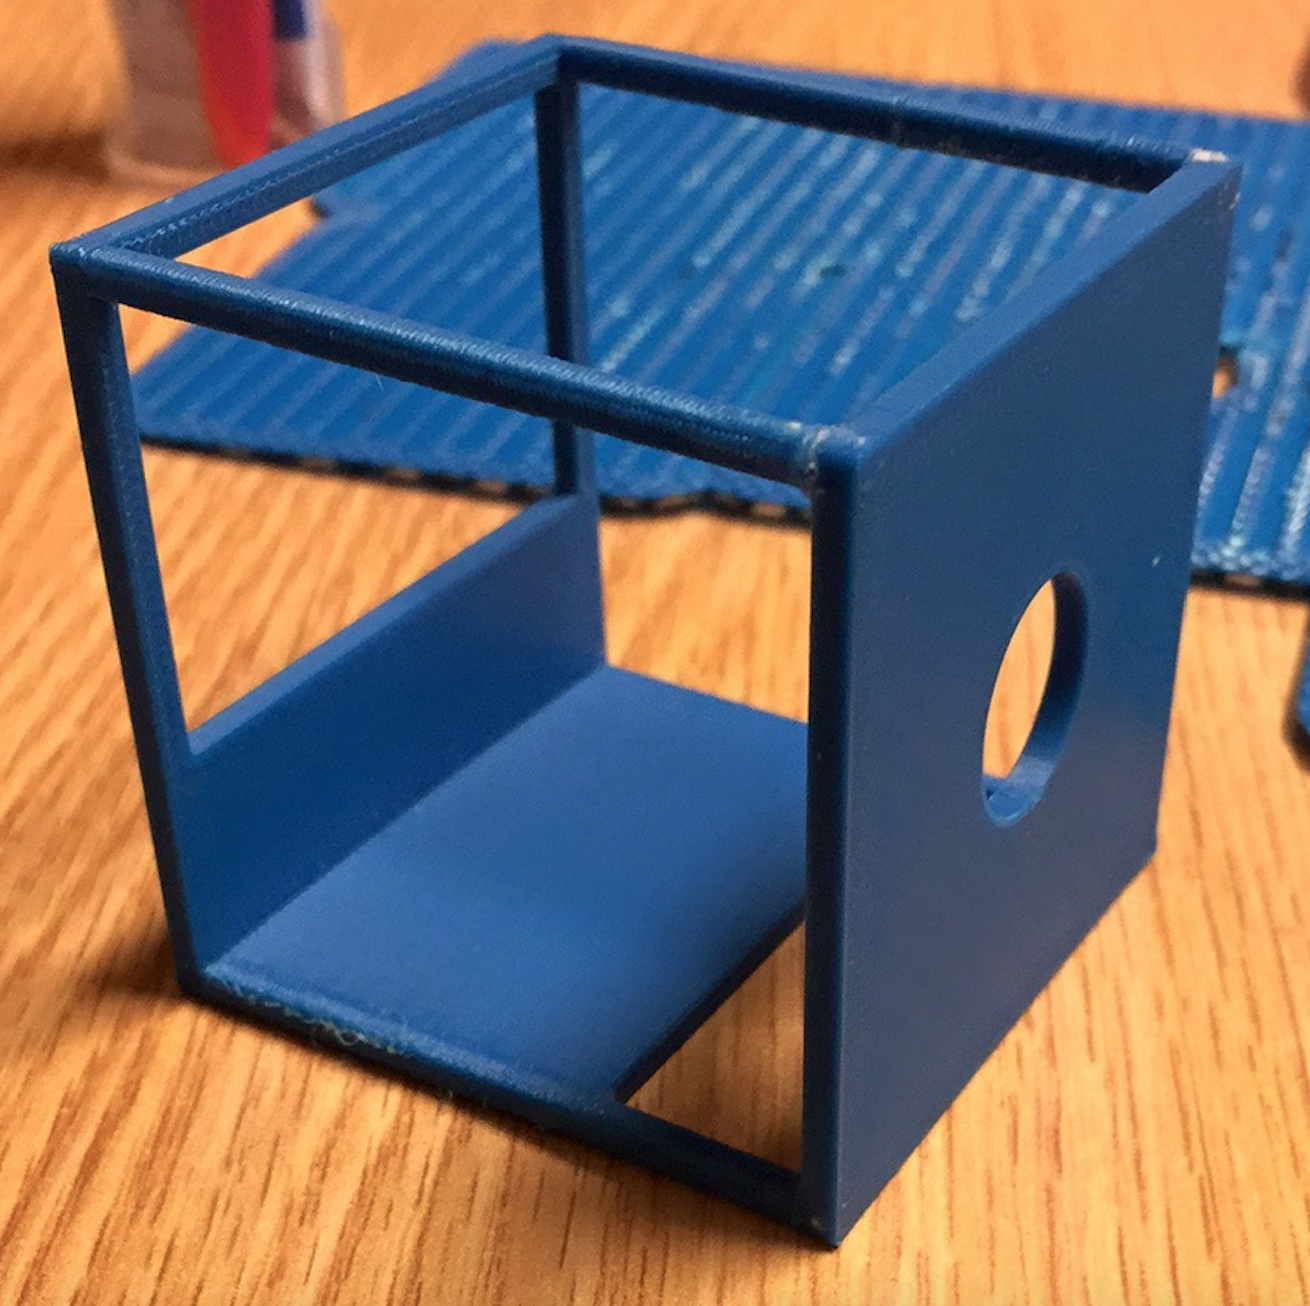
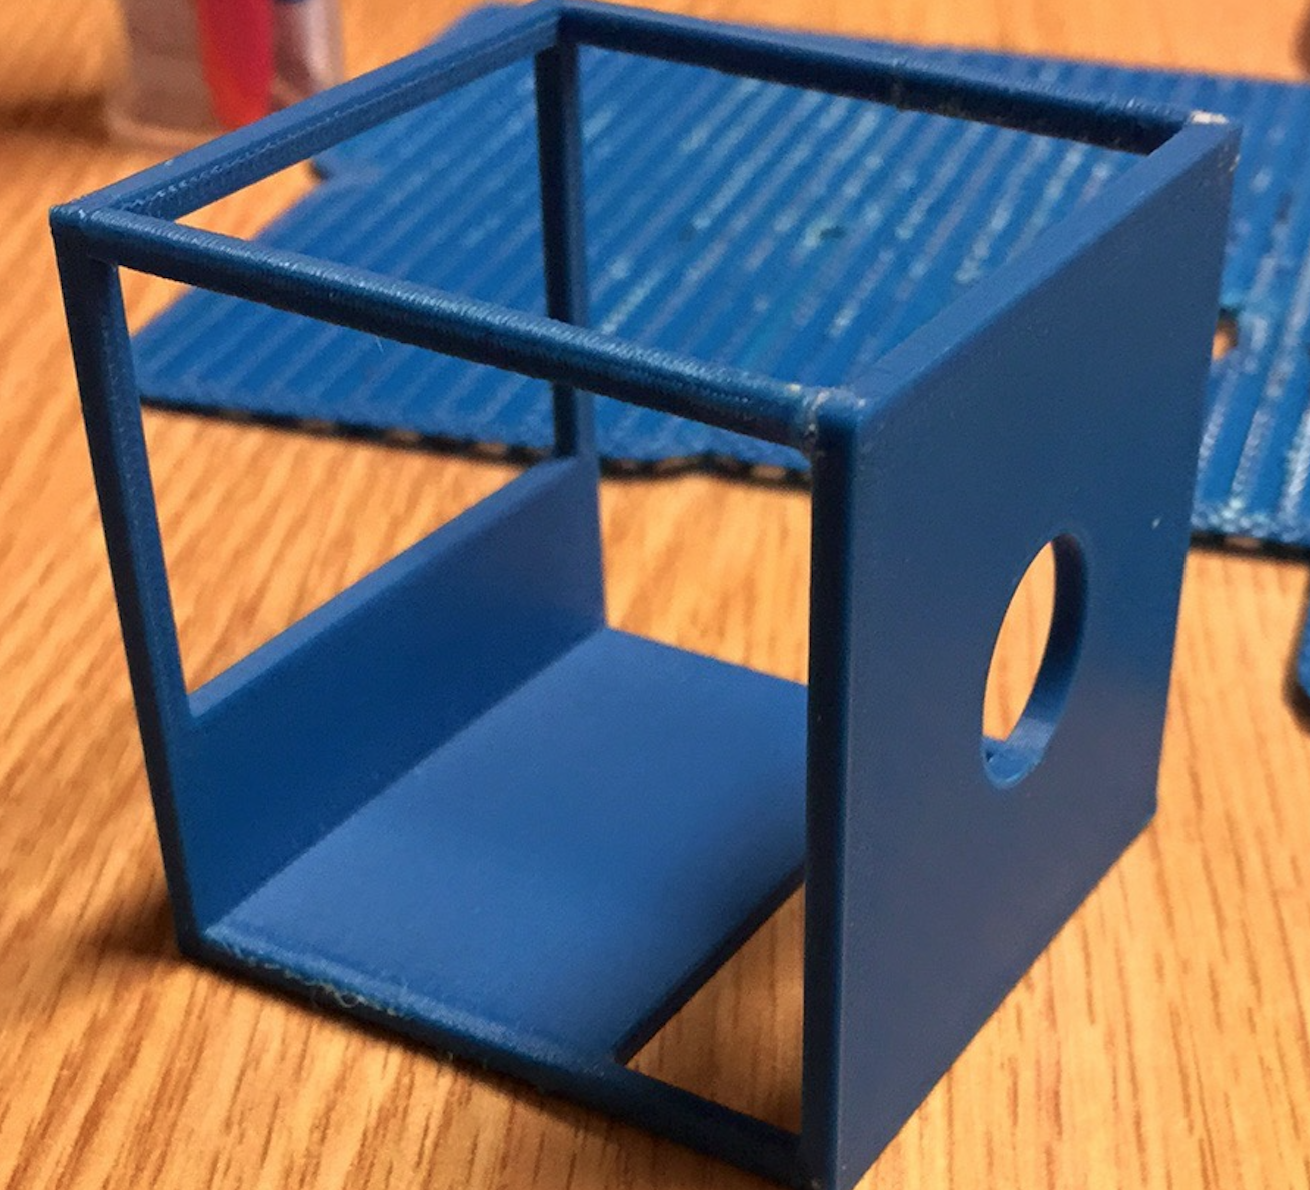
Finished 3D puzzle pop up in projects section

diff --git a/school.html b/school.html
@@ -212,18 +212,27 @@
 			<div>
 				<a href="#modal-close" title="Close" class="modal-close">close &times;</a>
 				<h1>3D Puzzle</h1>
-				<div>More info coming soon!</div>
+				<ul class="list">
+					<li>Task
+						<ul>
+							<li>Design a 3D puzzle using Solidworks. Each puzzle was 3D printed, so <strong>accurate measurements and tolerances</strong> were crucial.</br> My puzzle had six puzzle pieces that fit into a cube-shaped frame. Each puzzle piece was unique and there was a specific order that each piece must be placed in. The order is what made the puzzle more difficult.</li>
+						</ul>
+					</li>
+					<li id="cubic">Assembled Puzzle<img src="css_files/static/cube.png"></li>
+					<li id="cubic">Frame<img src="css_files/static/frame.png"></li>
+					<li id="cubic">Pieces<img src="css_files/static/pieces.jpeg""></li>
+				</ul>
 			</div>
 		</div>
 
 		<div id="trolley" class="modal-window">
 			<div>
 				<a href="#modal-close" title="Close" class="modal-close">close &times;</a>
-				<h1 style="font-size: 2.5vw">Tri-Wheel Trolley</h1>
+				<h1>Tri-Wheel Trolley</h1>
 				<ul class="list">
 					<li>Task
 						<ul>
-							<li>In groups of 5, design a product to improve the everyday lives of older adults.</li>
+							<li>In groups, design a product to improve the everyday lives of older adults.</li>
 						</ul>
 					</li>
 					<li id="full">Our Product
@@ -251,7 +260,7 @@
 							</li>
 							<li id="lfp">Low Fidelity Prototypes
 								<ul>
-									<li style="margin-bottom: -4vw">We made three different <strong>low fidelity prototypes</strong> and analyzed their strengths and weaknesses before settling on our final design.</li>
+									<li style="margin-bottom: 0">We made three different <strong>low fidelity prototypes</strong> and analyzed their strengths and weaknesses before settling on our final design.</li>
 									<li style="margin-left: 0" id="one">1. Tri-Wheel Trolley<img src="css_files/static/cart.png"></li>
 									<li id="one">2. Pulley System<img src="css_files/static/pulley.png"></li>
 									<li id="one">3. Stair Ramp<img src="css_files/static/ramp.png""></li>

diff --git a/css_files/schoolstyle.css b/css_files/schoolstyle.css
@@ -393,8 +393,8 @@ td ul li {
 }
 
 .modal-window h1 {
-  font-size: 150%;
-  margin: 0 0 15px;
+  font-size: 2.5vw;
+  margin: 0 0 2vw;
 }
 
 .list li {
@@ -415,6 +415,7 @@ td ul li {
 	font-size: 1.2vw;
 }
 
+/* Start of Trolley */
 .list #full {
 	background-color: #DEE2E2;
 	padding: 2vw;
@@ -459,15 +460,11 @@ td ul li {
 	display: block;
 }
 
-#lfp li {
-	height: 10vw;
-	margin-bottom: 0;
-}
-
-#lfp img {
+#one img {
 	width: 100%;
 	height: auto;
 	display: block;
+	margin-top: 1vw;
 }
 
 #one {
@@ -475,7 +472,28 @@ td ul li {
 	padding: 2vw;
 	width: 25%;
 	display: inline-block;
+	height: 11vw;
+	margin-bottom: 0;
 }
+
+/* Start of Cube */
+#cubic {
+	background-color: #DEE2E2;
+	padding: 2vw;
+	width: 25%;
+	display: inline-block;
+	height: 21vw;
+	margin-bottom: 0;
+	font-size: 1.2vw;
+}
+
+#cubic img {
+	width: 100%;
+	height: auto;
+	display: block;
+	margin-top: 1vw;
+}
+
 
 .modal-window video {
 	width: 100%;
